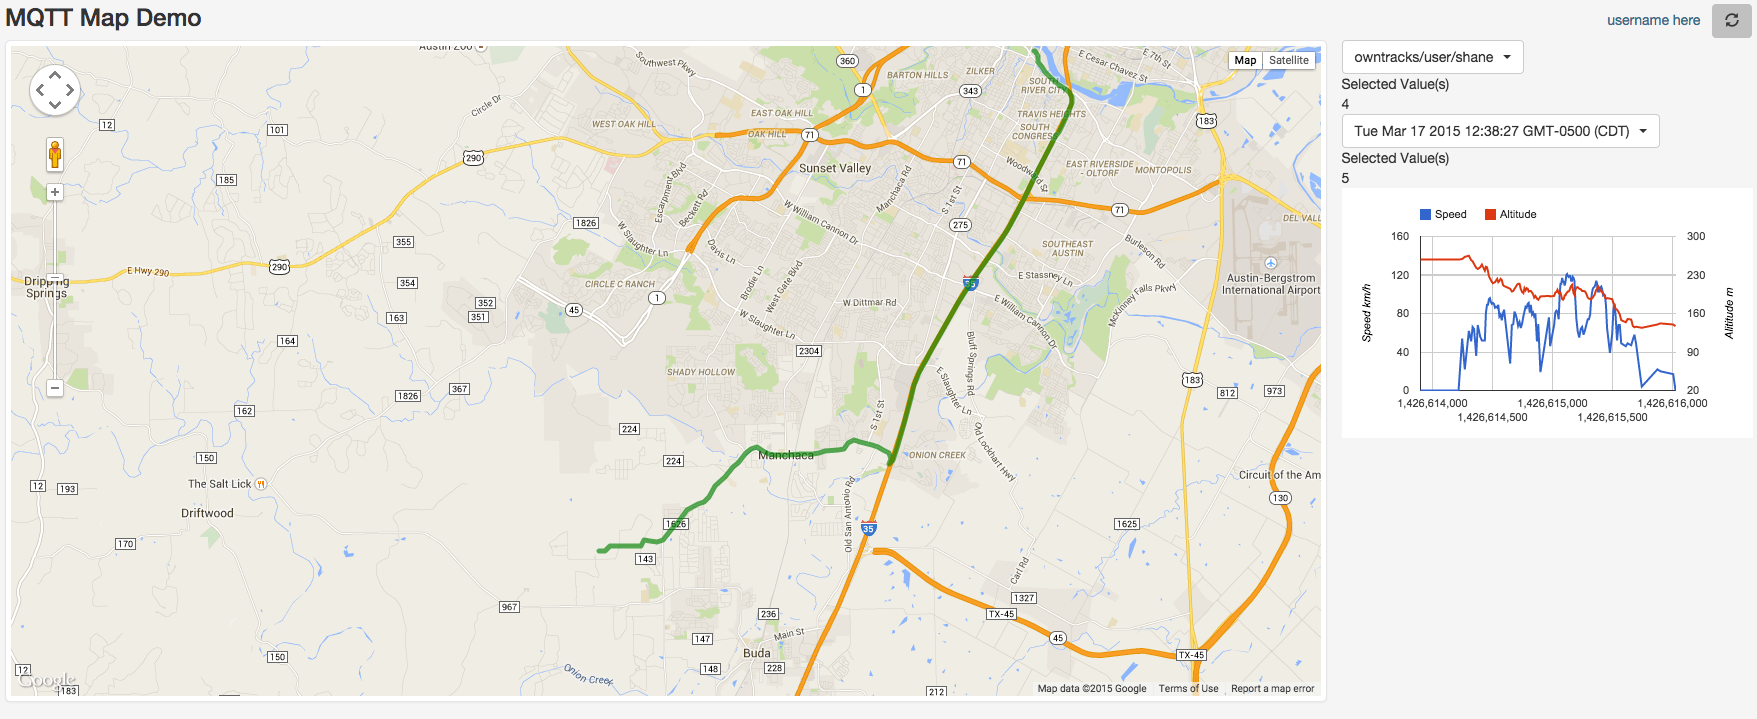
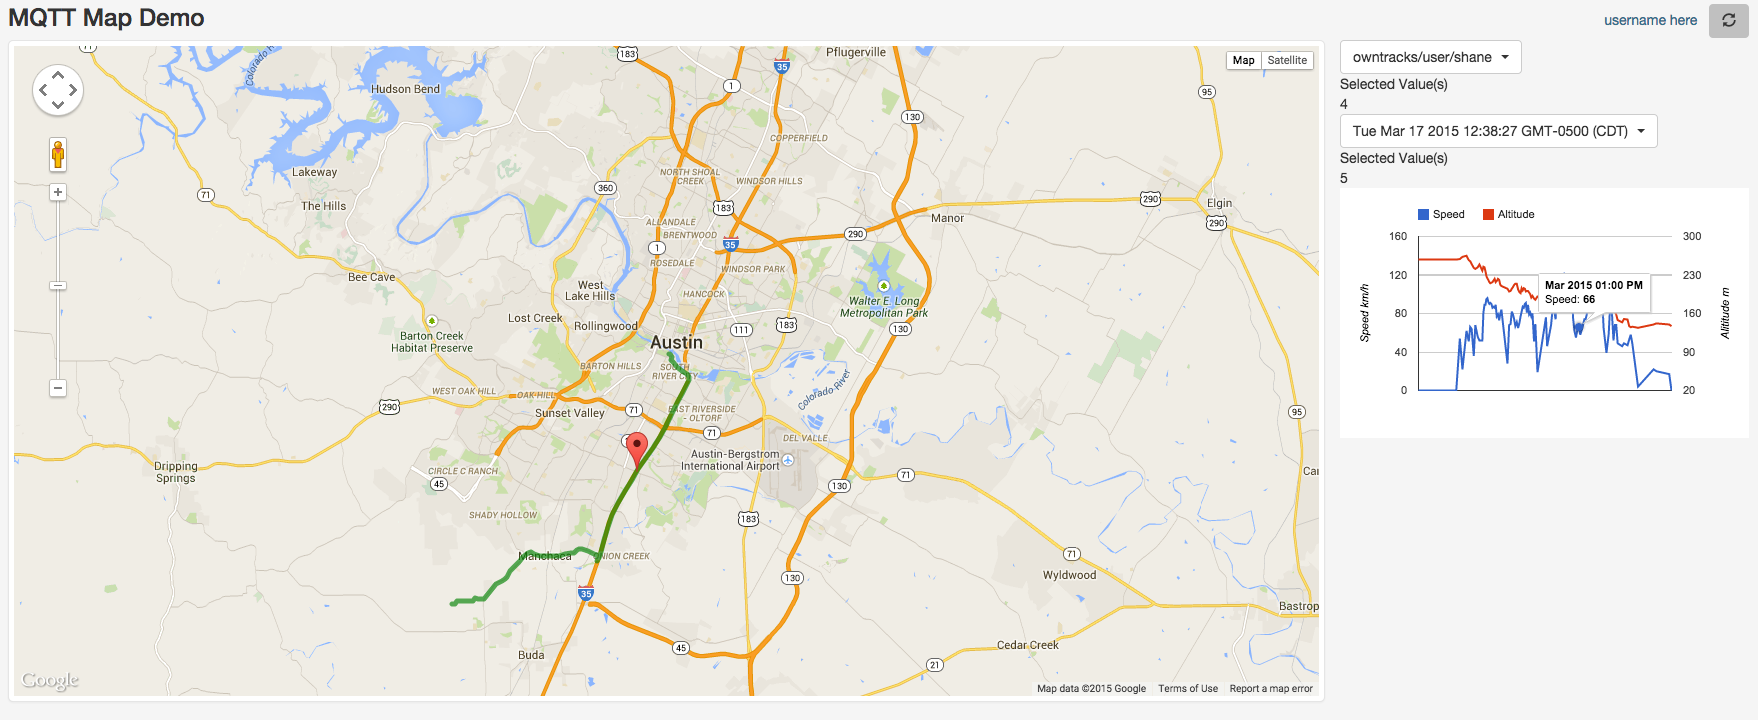
Link chart points to points on map. Update screen shot to reflect status.

diff --git a/src/main/resources/static/js/app.js b/src/main/resources/static/js/app.js
@@ -18,15 +18,42 @@ function ApplicationModel(map, cfg) {
 
     self.init = function() {
         //initialize chart
-        self.speedChart = new google.visualization.LineChart($('#speedChart')[0]);
-        google.visualization.events.addListener(self.speedChart, 'onmouseover', function(e) {
-            console.log("mouseover ",e)
+        self.speedChart = new google.visualization.ChartWrapper({
+            chartType: 'LineChart',
+            containerId: 'speedChart',
+            options: {
+                vAxes: [
+                    {title: 'Speed km/h', titleTextStyle: {color: 'black'}, maxValue: 10}, // Left axis
+                    {title: 'Alititude m', titleTextStyle: {color: 'black'}, maxValue: 20} // Right axis
+                ],
+                series: [
+                    {targetAxisIndex: 0},
+                    {targetAxisIndex: 1}
+                ]
+            }
         });
 
-        google.visualization.events.addListener(self.speedChart, 'onmouseout', function(e) {
-            console.log("mouseout ",e)
-        });
+        //wait for ready event so that we can subscript to mouse over events
+        google.visualization.events.addListener(self.speedChart, 'ready', function() {
 
+            google.visualization.events.addListener(self.speedChart.getChart(), 'onmouseover', function(e) {
+                var dt = self.speedChart.getDataTable(),
+                row = e.row;
+                if (row) {
+                    console.log("mouseover ", row, dt.getRowProperties(e.row));
+                    addMarker({
+                        lat: dt.getValue(e.row, 3),
+                        lon: dt.getValue(e.row, 4)
+                    });
+                    showMarkers();
+                }
+            });
+
+            google.visualization.events.addListener(self.speedChart.getChart(), 'onmouseout', function(e) {
+                console.log("mouseout ",e)
+                deleteMarkers();
+            });
+        });
 
         self.topicIds.subscribe(function(newvalue) {
             getSessions(newvalue);
@@ -146,9 +173,9 @@ function ApplicationModel(map, cfg) {
 
             position: new google.maps.LatLng(data.lat, data.lon),
             //icon: 'http://maps.google.com/mapfiles/ms/icons/red-dot.png',
-            labelContent: 'Lat: ' + data.lat + ' Lng: ' + data.lon,
+            //labelContent: 'Lat: ' + data.lat + ' Lng: ' + data.lon,
             //zIndex: zindex,
-            labelAnchor: new google.maps.Point(20, 0),
+            //labelAnchor: new google.maps.Point(20, 0),
             //labelClass: "labels", // the CSS class for the label
             labelInBackground: false,
             _id: data.id
@@ -192,23 +219,23 @@ function ApplicationModel(map, cfg) {
         dataTable.addColumn('date', 'Date');
         dataTable.addColumn('number', 'Speed');
         dataTable.addColumn('number', 'Altitude');
+        //add lat/lon for hover over event markers on map
+        dataTable.addColumn('number', 'lat');
+        dataTable.addColumn('number', 'lon');
+
         $.each(trackData, function (i, item) {
-            dataTable.addRow([new Date(item.tst * 1000), item.vel, item.alt])
+            dataTable.addRow([new Date(item.tst * 1000), item.vel, item.alt, item.lat, item.lon])
         });
         //reformat date column
         monthYearFormatter = new google.visualization.DateFormat({
             pattern: "MMM yyyy hh:mm aa"
         });
         monthYearFormatter.format(dataTable, 0);
-        self.speedChart.draw(dataTable, {
-                vAxes: [
-                    {title: 'Speed km/h', titleTextStyle: {color: 'black'}, maxValue: 10}, // Left axis
-                    {title: 'Alititude m', titleTextStyle: {color: 'black'}, maxValue: 20} // Right axis
-                ], series: [
-                    {targetAxisIndex: 0},
-                    {targetAxisIndex: 1}
-
-                ]
-            });
+        self.speedChart.setDataTable(dataTable);
+        self.speedChart.setView({
+            columns: [0,1,2]
+        });
+        self.speedChart.draw();
     }
+
 }

diff --git a/src/main/resources/templates/home.html b/src/main/resources/templates/home.html
@@ -15,8 +15,8 @@
             src="https://www.google.com/jsapi?autoload={
             'modules':[{
               'name':'visualization',
-              'version':'1.1',
-              'packages':['line','corechart']
+              'version':'1',
+              'packages':['corechart']
             }]
           }"></script>
     <script th:src="@{/webjars/jquery/2.1.3/jquery.js}"></script>
